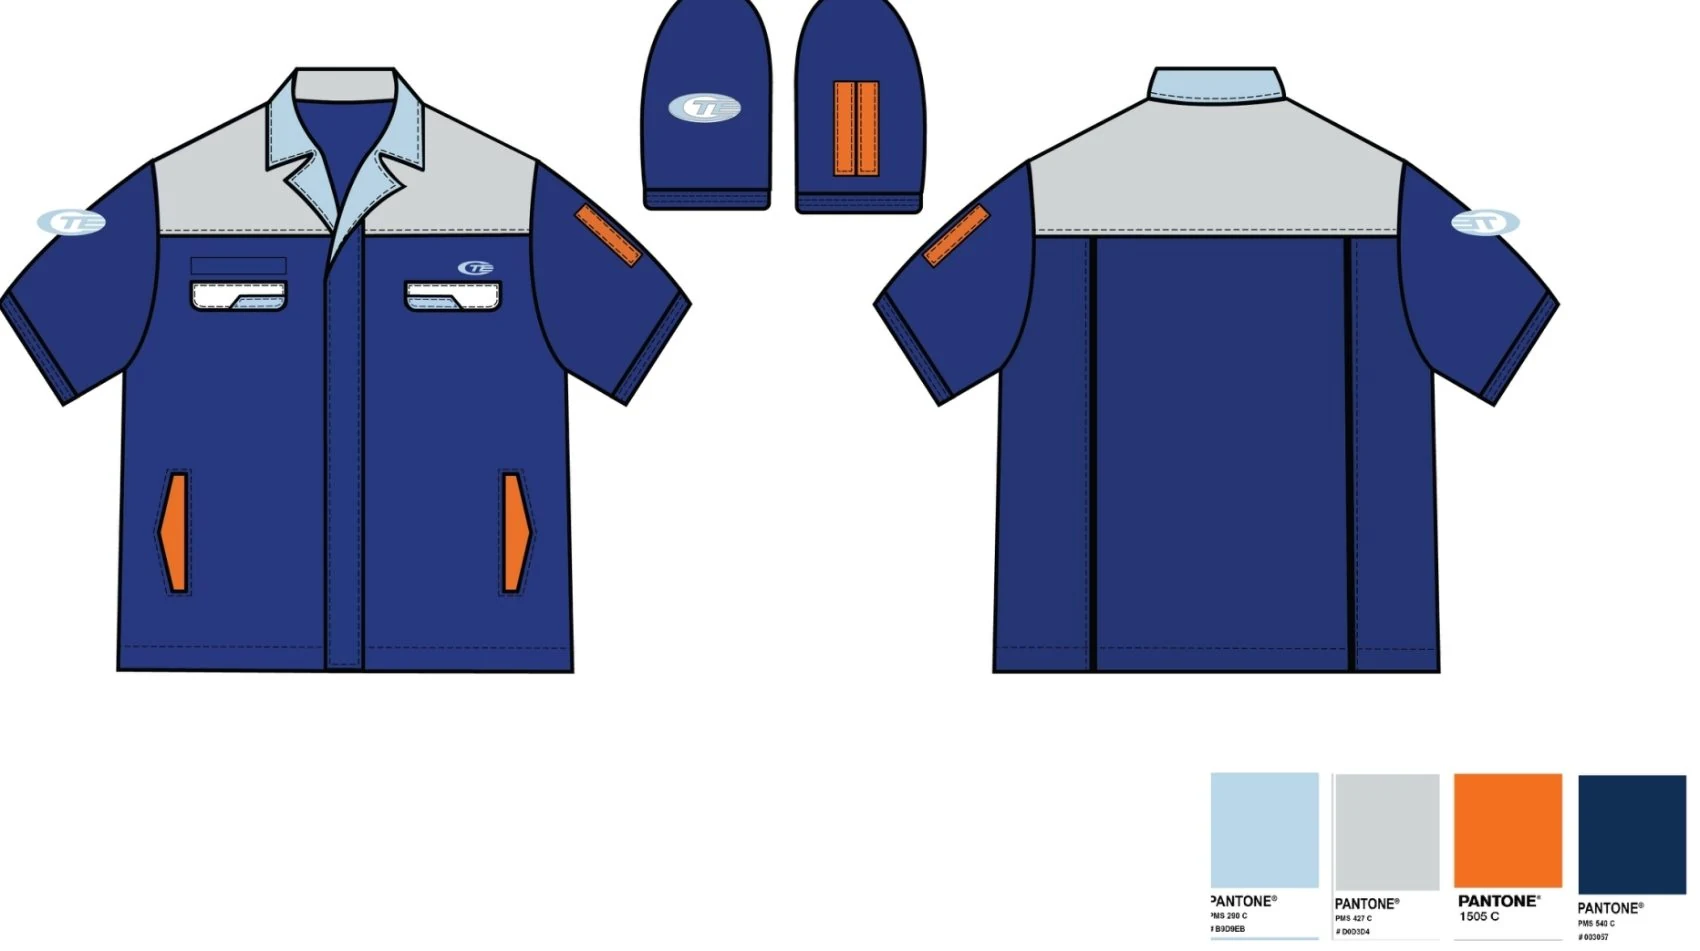
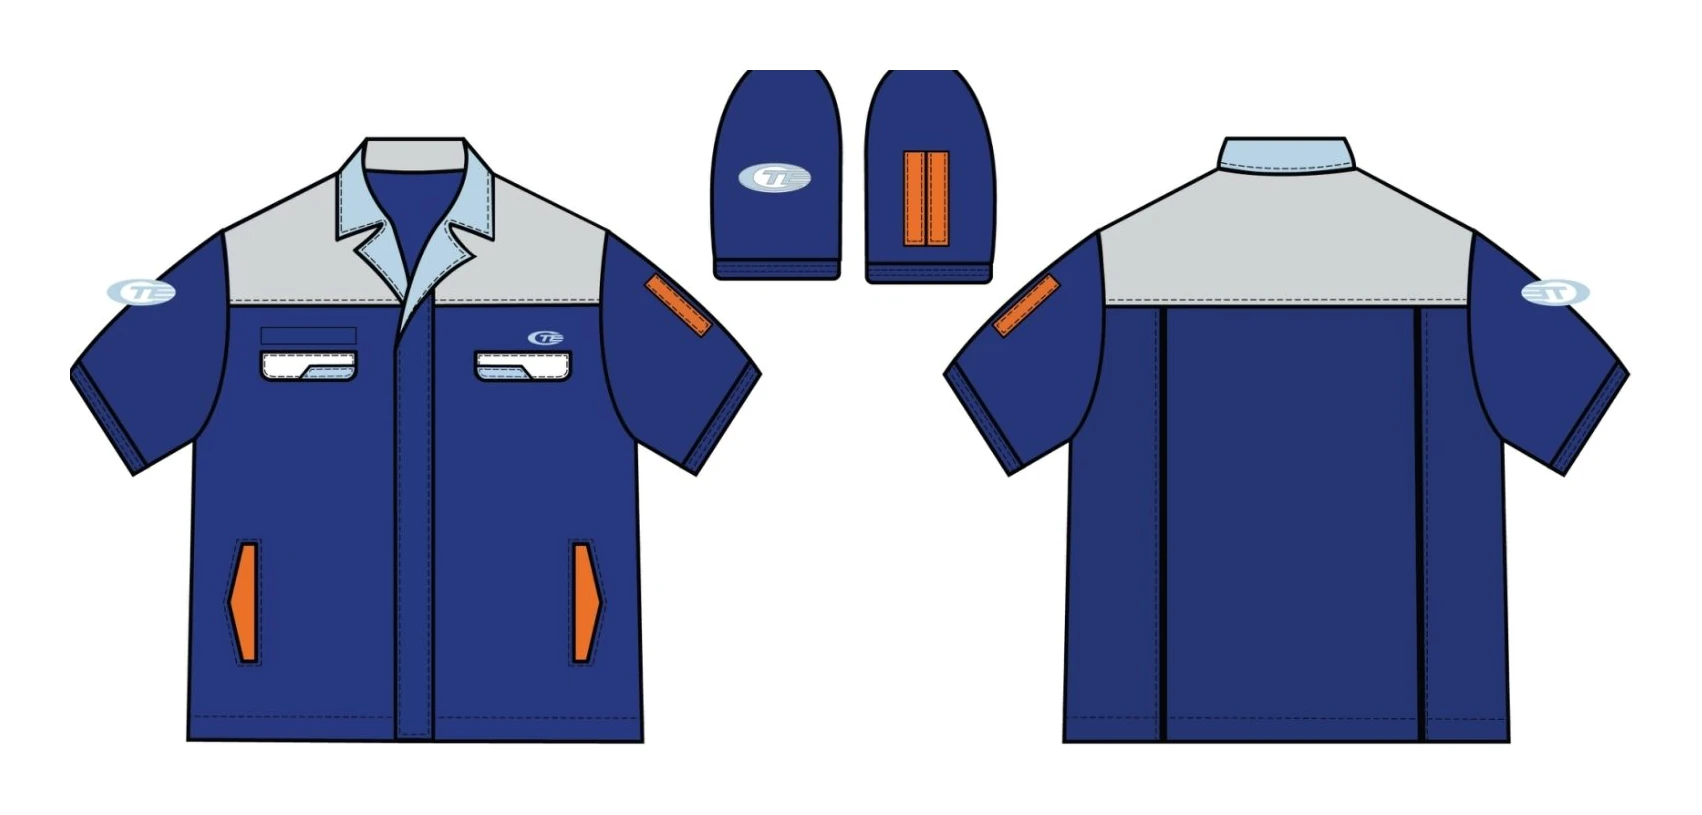
首頁斷行與 Visual Work 多項修正
首頁
- hero 說明改以逗號切成四個子句，每個子句用 inline-block + nowrap
  包成不可拆的單位。中文沒有空白當斷點，瀏覽器會在任何兩字之間換行，
  原本就斷在「響應式／設計；」中間。現在放不下會整個子句換行。
  實測 360-1920px 每一行都從子句開頭起；320px 才退回自由折行。
  max-width 改用 em，字級變動時每行字數才穩定。
- Visual Work 卡片的封面是 2.16:1 的導覽圖，用 16/10 會裁掉兩側一大塊，
  改成 .is-wide 用圖片原生比例。

Ocean Design
- 標誌發想圖：左側標誌加大留白。
- 標誌構成圖重做。原本解析度低、圓也沒對準：
  O 的尾巴比圓本身更左更上，用「最左黑點」找圓心會抓到尾巴。
  改以每欄／每列的黑色佔比判斷 O 的實體範圍（忽略細尾巴），
  再由中線的黑色區段量出筆畫粗細推出內圓。
  標誌縮到畫面四成寬，虛線圓加細輔助線，解析度 2400x1800。

活動主視覺
- WILD Party 文案改為「負責活動主視覺以及延伸物製作…」。
- 順序改為橫式 EDM、直式 EDM、識別證、現場實景、奇美數位立牌
  （橫式 EDM 與現場照重新匯入）。

其他
- 建材兩張樣機統一成 4:3；圖說改「封面與膠裝實體書」。
- id SHOW 圖說改為「台灣國際空間設計大獎精選圖鑑 封面提案」與
  「id SHOW 國際獎項年鑑 封面提案」。
- 制服設計圖面切掉右下的 Pantone 色票（下方已另外以 HTML 色票呈現），
  四周補白——原圖貼齊邊緣，看起來像被裁掉。

diff --git a/visual-work.html b/visual-work.html
@@ -7,7 +7,7 @@
   <meta name="description" content="Fuyu Tsai 六年品牌與平面設計的精選作品：品牌識別、出版封面、活動主視覺與插畫。">
   <link rel="preconnect" href="https://fonts.googleapis.com">
   <link href="https://fonts.googleapis.com/css2?family=Noto+Sans+TC:wght@400;500&display=swap" rel="stylesheet">
-  <link rel="stylesheet" href="css/style.css?v=20261114b">
+  <link rel="stylesheet" href="css/style.css?v=20261114e">
 </head>
 <body>
 
@@ -76,10 +76,10 @@
     <h2 class="vw-item-title">Ocean Design 翰洋設計｜品牌識別</h2>
     <p class="vw-meta">品牌識別｜Visual Identity</p>
     <p>以 Ocean Design 的 O、D 與海洋的線條為發想，O 作為主體，延伸出波浪尾巴的弧線與 D 的造型。標誌繪製、色彩規範與名片、信封、紙袋、衣服標籤等延伸應用皆由我完成。</p>
-    <img loading="lazy" decoding="async" width="2000" height="959" src="assets/images/Visual Work/ocean-logo-concept.webp" alt="Ocean Design 標誌的發想與推演：圓形、波浪線條到完成的 O 與 D" class="vw-main">
+    <img loading="lazy" decoding="async" width="2000" height="1000" src="assets/images/Visual Work/ocean-logo-concept.webp" alt="Ocean Design 標誌的發想與推演：圓形、波浪線條到完成的 O 與 D" class="vw-main">
     <p class="vw-cap">標誌發想與推演</p>
 
-    <img loading="lazy" decoding="async" width="2000" height="2000" src="assets/images/Visual Work/ocean-logo-construction.webp" alt="Ocean Design 標誌的構成格線與比例" class="vw-main">
+    <img loading="lazy" decoding="async" width="2400" height="1800" src="assets/images/Visual Work/ocean-logo-construction.webp" alt="Ocean Design 標誌的構成格線與比例" class="vw-main">
     <p class="vw-cap">標誌構成與比例</p>
 
     <img loading="lazy" decoding="async" width="1087" height="662" src="assets/images/Visual Work/ocean-logo-mono.webp" alt="Ocean Design 標誌與 OCEAN INTERNATIONAL 字標" class="vw-main">
@@ -181,13 +181,21 @@
     <p class="vw-meta">活動主視覺</p>
 
     <h3 class="vw-sub">2023 Better Future 全球城市獎頒獎典禮 WILD Party｜DECO TV</h3>
-    <p>橫式與直式主視覺製作、電子看板與現場背板，維持同一套視覺在不同尺寸中的資訊層級。</p>
-    <img loading="lazy" decoding="async" width="1387" height="2000" src="assets/images/Visual Work/wildparty-edm-portrait.webp" alt="WILD Party 頒獎典禮，直式主視覺 EDM" class="vw-main">
-    <p class="vw-cap">直式 EDM</p>
+    <p>負責活動主視覺以及延伸物製作，維持同一套視覺在不同尺寸中的資訊層級。</p>
+    <img loading="lazy" decoding="async" width="2000" height="1264" src="assets/images/Visual Work/wildparty-edm-landscape.webp" alt="WILD Party 頒獎典禮，橫式主視覺 EDM" class="vw-main">
+    <p class="vw-cap">橫式 EDM</p>
     <div class="vw-grid">
+      <figure>
+        <img loading="lazy" decoding="async" width="1387" height="2000" src="assets/images/Visual Work/wildparty-edm-portrait.webp" alt="WILD Party 頒獎典禮，直式主視覺 EDM">
+        <figcaption>直式 EDM</figcaption>
+      </figure>
       <figure>
         <img loading="lazy" decoding="async" width="900" height="900" src="assets/images/Visual Work/wildparty-badge.webp" alt="2023 設計獎頒獎典禮識別證">
         <figcaption>2023 設計獎頒獎典禮識別證</figcaption>
+      </figure>
+      <figure>
+        <img loading="lazy" decoding="async" width="900" height="600" src="assets/images/Visual Work/wildparty-onsite.webp" alt="WILD Party 頒獎典禮，現場實景">
+        <figcaption>現場實景</figcaption>
       </figure>
       <figure>
         <img loading="lazy" decoding="async" width="720" height="900" src="assets/images/Visual Work/wildparty-chimei-sign.webp" alt="奇美獎典禮數位立牌">
@@ -215,10 +223,10 @@
     <p class="vw-meta">出版｜id SHOW</p>
     <p>收錄 8 大建材種類、50 家行業專家與 850 張工法圖說的工具書，負責封面與全冊編排設計。</p>
     <div class="vw-pair">
-      <img loading="lazy" decoding="async" width="1440" height="2000" src="assets/images/Visual Work/material-guide-overhead.webp" alt="建材專家選用指南，封面樣機" class="">
-      <img loading="lazy" decoding="async" width="1448" height="1086" src="assets/images/Visual Work/material-guide-paperback.webp" alt="建材專家選用指南，平裝書樣機" class="">
+      <img loading="lazy" decoding="async" width="1800" height="1350" src="assets/images/Visual Work/material-guide-overhead.webp" alt="建材專家選用指南，封面" class="">
+      <img loading="lazy" decoding="async" width="1800" height="1350" src="assets/images/Visual Work/material-guide-paperback.webp" alt="建材專家選用指南，膠裝實體書" class="">
     </div>
-    <p class="vw-cap">封面與平裝書樣機</p>
+    <p class="vw-cap">封面與膠裝實體書</p>
   </section>
 
   <section class="vw-item reveal" id="idshow">
@@ -228,11 +236,11 @@
     <img loading="lazy" decoding="async" width="1448" height="1086" src="assets/images/Visual Work/idshow-magazine.webp" alt="id SHOW 雜誌" class="vw-main">
     <p class="vw-cap">id SHOW 雜誌</p>
 
-    <img loading="lazy" decoding="async" width="1448" height="1086" src="assets/images/Visual Work/idshow-discover-pair.webp" alt="發現設計雙冊陳列" class="vw-main">
-    <p class="vw-cap">發現設計雙冊陳列</p>
+    <img loading="lazy" decoding="async" width="1448" height="1086" src="assets/images/Visual Work/idshow-discover-pair.webp" alt="台灣國際空間設計大獎精選圖鑑，封面提案雙冊陳列" class="vw-main">
+    <p class="vw-cap">台灣國際空間設計大獎精選圖鑑 封面提案</p>
 
-    <img loading="lazy" decoding="async" width="1448" height="1086" src="assets/images/Visual Work/idshow-award-covers.webp" alt="雙冊國際設計獎封面" class="vw-main">
-    <p class="vw-cap">雙冊國際設計獎封面</p>
+    <img loading="lazy" decoding="async" width="1448" height="1086" src="assets/images/Visual Work/idshow-award-covers.webp" alt="id SHOW 國際獎項年鑑，封面提案雙冊陳列" class="vw-main">
+    <p class="vw-cap">id SHOW 國際獎項年鑑 封面提案</p>
   </section>
 
   <section class="vw-item reveal" id="deco">
@@ -285,7 +293,7 @@
     <h2 class="vw-item-title">中國端子｜制服設計</h2>
     <p class="vw-meta">制服設計｜客戶委託</p>
     <p>提案制服設計圖面，包含正背面、配色與 Pantone 色號標示供工廠打樣以及量產後的成品實際著用圖。</p>
-    <img loading="lazy" decoding="async" width="1700" height="951" src="assets/images/Visual Work/uniform-spec-sheet.webp" alt="中國端子制服設計，正背面圖面與配色標示" class="vw-main">
+    <img loading="lazy" decoding="async" width="1702" height="815" src="assets/images/Visual Work/uniform-spec-sheet.webp" alt="中國端子制服設計，正背面圖面與配色標示" class="vw-main">
     <p class="vw-cap">設計圖面</p>
 
     <h3 class="vw-sub">Pantone 色號</h3>
@@ -351,6 +359,6 @@
 
 <script src="https://cdn.jsdelivr.net/npm/lenis@1.3.26/dist/lenis.min.js"></script>
 <script src="js/main.js"></script>
-<script src="js/menu.js?v=20261114b"></script>
+<script src="js/menu.js?v=20261114e"></script>
 </body>
 </html>

diff --git a/index.html b/index.html
@@ -7,7 +7,7 @@
   <meta name="description" content="蔡馥伃 Fuyu Tsai — UI/UX Designer。六年品牌與視覺設計背景，專注網站介面、設計系統與響應式設計。">
   <link rel="preconnect" href="https://fonts.googleapis.com">
   <link href="https://fonts.googleapis.com/css2?family=Noto+Sans+TC:wght@400;500&display=swap" rel="stylesheet">
-  <link rel="stylesheet" href="css/style.css?v=20261114b">
+  <link rel="stylesheet" href="css/style.css?v=20261114e">
   <script type="importmap">
   { "imports": { "three": "https://cdn.jsdelivr.net/npm/three@0.180.0/build/three.module.js" } }
   </script>
@@ -77,7 +77,7 @@
       Fuyu<br>Tsai<span class="dot">.</span>
     </h1>
     <div class="hero-bottom reveal">
-      <p class="hero-desc">六年品牌與視覺設計經驗，專注網站介面、設計系統與響應式設計；<br>理解網頁版面與實作邏輯，打造一致且可落地的數位體驗。</p>
+      <p class="hero-desc"><span class="ln">六年品牌與視覺設計經驗，</span><span class="ln">專注網站介面、設計系統與響應式設計；</span><span class="ln">理解網頁版面與實作邏輯，</span><span class="ln">打造一致且可落地的數位體驗。</span></p>
       <a href="#work" class="hero-cta">
         View Selected Work
         <svg width="16" height="16" viewBox="0 0 16 16" fill="none">
@@ -169,7 +169,7 @@
       </a>
     </div>
     <a href="visual-work.html" class="work-card reveal">
-      <div class="work-card-media">
+      <div class="work-card-media is-wide">
         <img loading="lazy" decoding="async" width="2000" height="927" src="assets/images/Visual Work/chilliwan-exhibition-map.webp" alt="Visual Work">
       </div>
       <div class="work-card-meta">
@@ -227,7 +227,7 @@
 
 <script src="https://cdn.jsdelivr.net/npm/lenis@1.3.26/dist/lenis.min.js"></script>
 <script src="js/main.js"></script>
-<script src="js/menu.js?v=20261114b"></script>
+<script src="js/menu.js?v=20261114e"></script>
 <script type="module" src="js/lava.js"></script>
 </body>
 </html>

diff --git a/css/style.css b/css/style.css
@@ -311,8 +311,26 @@ footer {
   font-size: var(--fs-3);
   line-height: var(--lh-cjk);
   color: var(--ink-mid);
-  max-width: min(520px, 36vw);   /* 寬螢幕時第二句收成一行，窄螢幕自然折成兩行 */
+  /* 用 em 而不是固定 px：字級變動時每行字數維持穩定 */
+  max-width: 33em;
   letter-spacing: var(--ls-cjk);
+  line-break: strict;       /* 標點不落在行首行尾 */
+}
+
+/* 以逗號為界切成子句，每個子句是不可拆的單位。
+   中文沒有空白可當斷點，瀏覽器會在任何一字之間換行——
+   原本就斷在「響應式／設計；」中間。現在放不下就整個子句換到下一行。 */
+.hero-desc .ln {
+  display: inline-block;
+  white-space: nowrap;
+}
+
+@media (max-width: 1100px) { .hero-desc { max-width: 25em; } }
+@media (max-width: 768px)  { .hero-desc { max-width: 100%; } }
+
+/* 小於 360px 時最長的子句也塞不下，只能讓它自己折 */
+@media (max-width: 359px) {
+  .hero-desc .ln { display: inline; white-space: normal; }
 }
 
 .hero-cta {
@@ -466,6 +484,9 @@ footer {
   border-radius: 16px;
   aspect-ratio: 16 / 10;   /* 四張都是 1:1 的 mockup，統一裁成同一個比例 */
 }
+
+/* 奇麗灣導覽圖是 2.16:1，用 16/10 會把兩側裁掉一大塊 */
+.work-card-media.is-wide { aspect-ratio: 2.16 / 1; }
 
 .work-card img {
   --zoom: 1;                     /* 每張圖的基礎縮放，hover 在這之上再疊 */

diff --git a/case-acer.html b/case-acer.html
@@ -7,7 +7,7 @@
   <meta name="description" content="Acer 官網概念重設計 — 資訊架構收斂、token-based 設計系統與比較功能互動原型。Fuyu Tsai UI/UX Case Study。">
   <link rel="preconnect" href="https://fonts.googleapis.com">
   <link href="https://fonts.googleapis.com/css2?family=Noto+Sans+TC:wght@400;500&display=swap" rel="stylesheet">
-  <link rel="stylesheet" href="css/style.css?v=20261114b">
+  <link rel="stylesheet" href="css/style.css?v=20261114e">
 </head>
 <body>
 
@@ -439,7 +439,7 @@
 
 <script src="https://cdn.jsdelivr.net/npm/lenis@1.3.26/dist/lenis.min.js"></script>
 <script src="js/main.js"></script>
-<script src="js/menu.js?v=20261114b"></script>
-<script src="js/lightbox.js?v=20261114b"></script>
+<script src="js/menu.js?v=20261114e"></script>
+<script src="js/lightbox.js?v=20261114e"></script>
 </body>
 </html>

diff --git a/case-michelin.html b/case-michelin.html
@@ -7,7 +7,7 @@
   <meta name="description" content="Michelin Guide 概念重設計 — 餐廳搜尋、列表、詳細頁與三步驟訂位流程。Fuyu Tsai UI/UX Case Study。">
   <link rel="preconnect" href="https://fonts.googleapis.com">
   <link href="https://fonts.googleapis.com/css2?family=Noto+Sans+TC:wght@400;500&display=swap" rel="stylesheet">
-  <link rel="stylesheet" href="css/style.css?v=20261114b">
+  <link rel="stylesheet" href="css/style.css?v=20261114e">
 </head>
 <body>
 
@@ -350,7 +350,7 @@
 
 <script src="https://cdn.jsdelivr.net/npm/lenis@1.3.26/dist/lenis.min.js"></script>
 <script src="js/main.js"></script>
-<script src="js/menu.js?v=20261114b"></script>
-<script src="js/lightbox.js?v=20261114b"></script>
+<script src="js/menu.js?v=20261114e"></script>
+<script src="js/lightbox.js?v=20261114e"></script>
 </body>
 </html>

diff --git a/case-iii-awards.html b/case-iii-awards.html
@@ -7,7 +7,7 @@
   <meta name="description" content="III Awards Agency — 為國際獎項顧問服務建立獨立品牌與四頁響應式網站。Fuyu Tsai UI/UX Case Study。">
   <link rel="preconnect" href="https://fonts.googleapis.com">
   <link href="https://fonts.googleapis.com/css2?family=Noto+Sans+TC:wght@400;500&display=swap" rel="stylesheet">
-  <link rel="stylesheet" href="css/style.css?v=20261114b">
+  <link rel="stylesheet" href="css/style.css?v=20261114e">
 </head>
 <body>
 
@@ -359,7 +359,7 @@
 
 <script src="https://cdn.jsdelivr.net/npm/lenis@1.3.26/dist/lenis.min.js"></script>
 <script src="js/main.js"></script>
-<script src="js/menu.js?v=20261114b"></script>
-<script src="js/lightbox.js?v=20261114b"></script>
+<script src="js/menu.js?v=20261114e"></script>
+<script src="js/lightbox.js?v=20261114e"></script>
 </body>
 </html>

diff --git a/case-iii-design.html b/case-iii-design.html
@@ -7,7 +7,7 @@
   <meta name="description" content="III Design Studio — 品牌識別、視覺系統到官網的完整設計路徑。Fuyu Tsai UI/UX Case Study。">
   <link rel="preconnect" href="https://fonts.googleapis.com">
   <link href="https://fonts.googleapis.com/css2?family=Noto+Sans+TC:wght@400;500&display=swap" rel="stylesheet">
-  <link rel="stylesheet" href="css/style.css?v=20261114b">
+  <link rel="stylesheet" href="css/style.css?v=20261114e">
 </head>
 <body>
 
@@ -309,7 +309,7 @@
 
 <script src="https://cdn.jsdelivr.net/npm/lenis@1.3.26/dist/lenis.min.js"></script>
 <script src="js/main.js"></script>
-<script src="js/menu.js?v=20261114b"></script>
-<script src="js/lightbox.js?v=20261114b"></script>
+<script src="js/menu.js?v=20261114e"></script>
+<script src="js/lightbox.js?v=20261114e"></script>
 </body>
 </html>

diff --git a/about.html b/about.html
@@ -7,7 +7,7 @@
   <meta name="description" content="關於蔡馥伃 Fuyu Tsai — UI/UX Designer。六年品牌與視覺設計經驗，專注網站介面、設計系統與響應式設計。">
   <link rel="preconnect" href="https://fonts.googleapis.com">
   <link href="https://fonts.googleapis.com/css2?family=Noto+Sans+TC:wght@400;500&display=swap" rel="stylesheet">
-  <link rel="stylesheet" href="css/style.css?v=20261114b">
+  <link rel="stylesheet" href="css/style.css?v=20261114e">
 </head>
 <body>
 
@@ -208,6 +208,6 @@
 
 <script src="https://cdn.jsdelivr.net/npm/lenis@1.3.26/dist/lenis.min.js"></script>
 <script src="js/main.js"></script>
-<script src="js/menu.js?v=20261114b"></script>
+<script src="js/menu.js?v=20261114e"></script>
 </body>
 </html>
